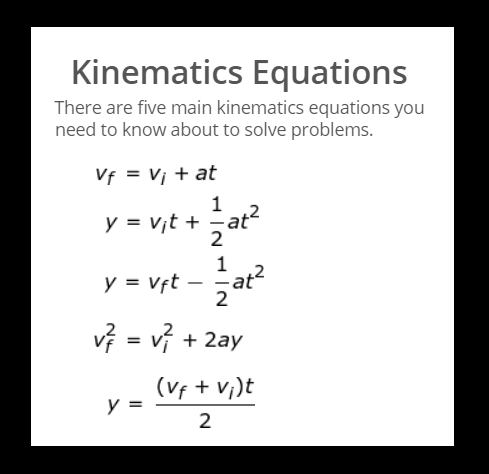
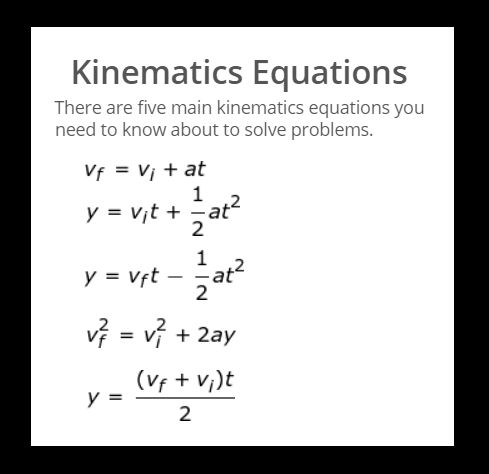
Lesson 1.3 Graphs

diff --git a/client/src/Pages/Lessons/ClassicalMechanics/Kinematics/Lesson1_3.js b/client/src/Pages/Lessons/ClassicalMechanics/Kinematics/Lesson1_3.js
@@ -42,10 +42,44 @@ const Lesson1_3 = () => {
 
       <div id="section1" className="green lighten-5" style={{padding:"1vh 6vw"}}>{/* SECTION 1 Two Equations*/}
         <h4 className="green-text text-darken-3">Intro: Two Kinematics Equations</h4>
-        <p className="center"><em>From here on out, Initial Velocity will often be represented as <InlineMath>{String.raw`v_o`}</InlineMath> ("v-naught") rather than <InlineMath>{String.raw`v_i`}</InlineMath>.</em></p>
-        <p style={{textIndent: "1.2em"}}>I'm probably under fire for insisting that there are only two kinematics equations. But here they are!</p>
+        <p><em>From here on out, Initial Velocity will often be represented as <InlineMath>{String.raw`v_o`}</InlineMath> ("v-naught") rather than <InlineMath>{String.raw`v_i`}</InlineMath>.</em></p>
+        <h5>The Five Kinematics Equations and Why I Despise Them</h5>
+        <p style={{textIndent: "1.2em"}}>
+          The Kinematics Equations are useful relationships between the variables we introduced last lesson: displacement, velocity (final and initial), acceleration, and time. 
+          Most kinematics problems will present some number of givens, and ask for you to solve for some unknown variable(s).
+          Because of this, many instructors compile a comprehensive list of equations that act as your toolbox.
+        </p>
+        <div className="row" style={{display: "flex", flexWrap: "wrap"}}>
+          <div className="col s7 m8 l8 green lighten-4" style={{borderStyle:"double", borderColor:"green"}}>
+            <h5 className="center">Using the List of Kinematics Equations</h5>
+            <h6 style={{textIndent: "1.2em"}}>1. Write down given variables and unknowns to solve for.</h6>
+            <h6 style={{textIndent: "1.2em"}}>2. Go through your list of equations and select the one that has all but one missing variable.</h6>
+            <h6 style={{textIndent: "1.2em"}}>3. Plug-N-Chug (sub in given values, solve for the unknown)</h6>
+            <p className="center"><em>The idea here is that every unknown variable in a kinematics problem has at least <b>one hyper-efficient equation</b> into which given values can be plugged, and one unknown pops out after some algebra.</em></p>
+            <div className="amber lighten-4" style={{padding:"1% 1% 0% 1%", borderStyle:"solid", borderColor:"#ff6f00"}}>
+                <h5 className="amber-text text-darken-4 center">Example: Choosing the Right Equation of the Five</h5>
+                <h6>A rock is thrown from the edge of a cliff. 3 seconds after it's thrown, its y-velocity is measured to be 35.6 m/s downward. Find its initial velocity.</h6>
+                <p><b>Step 1.</b> Given variables are <InlineMath>{String.raw`t=3s`}</InlineMath>, <InlineMath>{String.raw`a=-9.8m/s^2`}</InlineMath>, and <InlineMath>{String.raw`v_f = -35.6m/s`}</InlineMath>.</p>
+                <p className="center"><em>Find <InlineMath>{String.raw`v_o`}</InlineMath></em></p>
+                <p><b>Step 2.</b> The equation that contains variables t, a, v<sub>f</sub>, and v<sub>o</sub> is the Equation 1 from the list on the right. Since the problem doesn't give or ask for position, y, so we ignore equations 2-5.</p>
+                <p className="center"><em><InlineMath>{String.raw`v_f=v_o + at`}</InlineMath></em></p>
+                <p><b>Step 3.</b> Plug N Chug</p>
+                <p className="center"><em><InlineMath>{String.raw`-35.6m/s = v_o + (-9.8m/s^2)(3s)`}</InlineMath></em></p>
+                <p className="center"><em><InlineMath>{String.raw`-35.6m/s = v_o - 29.6 m/s`}</InlineMath></em></p>
+                <h6 className="center">So the ball was thrown downward, with <InlineMath>{String.raw`v_o = -6 m/s`}</InlineMath></h6>
+            </div>
+          </div>
+          <div className="col s5 m4 l4 grey lighten-3 center">
+            <h6><em>The "5 Kinematics Equations" according to the first Google search result</em></h6>
+            <img src={kinematicsEquations} width="80%"/>
+            <p><em>These equations set up almost all the possible relations between 5 variables: v<sub>i</sub>, v<sub>f</sub>, a, position, and t.</em></p>
+            <p style={{textAlign: "left", textIndent:"1.2em"}}>Each equation is missing one or more of these five variables, so students choose the most-efficient equation to apply to each problem.</p>
+          </div>
+        </div>
         <div className="row">{/* Two Kinematics Equations CONTENT */}
-          <div className="col s7 m7 l7">
+          <div className="col s12 m12 l12">
+            <h6>So if that's how everybody else teaches kinematics, why am I pretending there are only two equations?</h6>
+            <p style={{textIndent: "1.2em"}}>I'm not saying that your professors, teachers, and textbooks are wrong; there are at least four or five equations to master. But let's look at my proposed two-equation format.</p>
             <div className="col s6 m6 l6">
               <h6 className="center"><em>The Displacement Equation</em></h6>
               <h5 className="center"><InlineMath>{String.raw`Δx = v_ot + \frac{1}{2}at^2`}</InlineMath></h5>
@@ -55,26 +89,32 @@ const Lesson1_3 = () => {
               <h5 className="center"><InlineMath>{String.raw`v_f^2 = v_o^2 + 2aΔx`}</InlineMath></h5>
             </div>
             <div className="col s12 m12 l12">
-              <p>Both of the above equations hold true <em>as long as acceleration is constant</em>. But where are all the other ones, one might ask? Well you learned a few of them already, but I think of them less as "formulas" and more as definitions.</p>
+              <p>Both of the above equations hold true <em>as long as acceleration is constant</em>; I insist that these are the only two that are truly new. As for the others, well, you learned them already...</p>
             </div>
-            <div className="col s6 m6 l6">
+            <div className="col s4 m4 l4">
               <h6 className="center"><em>Definition of Velocity</em></h6>
               <h5 className="center"><InlineMath>{String.raw`\vec{v} = \frac{Δx}{t}`}</InlineMath></h5>
             </div>
-            <div className="col s6 m6 l6">
+            <div className="col s4 m4 l4">
               <h6 className="center"><em>Definition of Acceleration</em></h6>
               <h5 className="center"><InlineMath>{String.raw`\vec{a} = \frac{Δv}{t}`}</InlineMath></h5>
             </div>
-            <div className="col s12 m12 l12">
-              <p>These two are true no matter what (that's why they're definitions). There's also one more equation some people suggest: finding the average velocity of an object undergoing constant acceleration from v<sub>o</sub> to v<sub>f</sub>.</p>
+            <div className="col s4 m4 l4">
               <h6 className="center"><em>Calculating Average Velocity</em></h6>
               <h5 className="center"><InlineMath>{String.raw`v_{avg} = \frac{v_o+v_f}{2}`}</InlineMath></h5>
-              <p>...but I sincerely hope we don't need sit down and memorize the formula for arithmetic mean (average) of two numbers.</p>
             </div>
-          </div>
-          <div className="col s5 m5 l5 center">
-            <img src={kinematicsEquations} width="80%"/>
-            <p><em></em></p>
+            <div className="col s12 m12 l12">
+              <p>The first two are true no matter what (that's why they're definitions). The third is quite literally the definition of the "average value" of two numbers... which works as long as acceleration is constant. So if you really scrutinize the list of five kinematics equations, you may notice that...</p>
+              <div className="container">
+                <li>EQ 1 is just the definition of acceleration, rearranged to isolate v<sub>f</sub>.</li><br/>
+                <li>EQ 5 is just <InlineMath>{String.raw`Δx = v_{avg}t`}</InlineMath></li><br/>
+                <li>EQ 3 just combines EQs 1 and 2 with substition: <InlineMath>{String.raw`v_i = v_f - at`}</InlineMath></li>
+              </div>
+              <h5>I'm proposing a different strategy for your study of kinematics:</h5>
+              <h6><b>~Master the mathematical definitions of your variables, as well as the two kinematics equations</b> (rather than memorize five different equations)</h6>
+              <h6><b>~Practice solving problems using critical thinking and analysis</b> as opposed to digging through a list for the most-suitable equation.</h6>
+              <p>You'll find success if you train yourself to visualize each situation, analyze variables in relation to other variables, and build big-picture understanding through concept mastery rather than algebra-drilling.</p>
+            </div>
           </div>
         </div>
         <div className="amber darken-1 row">{/* Two Kinematics Equations EXAMPLE PROBLEMS */}
@@ -84,11 +124,47 @@ const Lesson1_3 = () => {
       </div>{/* Section 1 End*/}
 
       <div id="section2" className="blue lighten-5" style={{padding:"1vh 6vw"}}>{/* SECTION 2 Displacement EQ*/}
-        <h4 className="blue-text text-darken-3">The Displacement Equation</h4>
-        <p style={{textIndent: "1.2em"}}></p>
-        <p className="center"><em></em></p>
-
+        <h4 className="blue-text text-darken-3">The Displacement Equation: <InlineMath>{String.raw`Δx = v_ot + \frac{1}{2}at^2`}</InlineMath></h4>
+        <p style={{textIndent: "1.2em"}}>This equation comes from integrating the definition of acceleration (using Calculus). Regardless of your experience in Calculus, we can visualize where this equation comes from using motion graphs and area-under-the-curve problems. Let's break it down with two scenarios.</p>
         <div className="row">{/* Two Kinematics Equations CONTENT */}
+          <div className="col s12 m6 l6">
+            <h5>1. Constant Velocity (no acceleration)</h5>
+            <p>
+              Consider an object with initial velocity 2m/s and <b>no acceleration</b>. Its displacement, then, is a linear function of time: 
+            </p>
+            <div className="col s6 m6 l6">
+              <h6 className="center blue-text">Δx as a function of time</h6>
+              <iframe src="https://www.desmos.com/calculator/smgyic8m3e?embed"></iframe>
+              <p><em>Displacement increases steadily over time, as the velocity is constant.</em></p>
+            </div>
+            <div className="col s6 m6 l6">
+              <h6 className="center red-text"><em>v</em> as a function of time</h6>
+              <iframe src="https://www.desmos.com/calculator/hw8qhbp3wd?embed"></iframe>
+              <p><em>With a=0, the velocity stays at 2 m/s. The area under this line tells us the displacement after <em>t</em> seconds.</em></p>
+            </div>
+
+          </div>
+          <div className="col s12 m6 l6">
+            <h5>2. Initial Velocity 0, but constant acceleration</h5>
+            <p>
+              This object starts from rest, but has constant acceleration <InlineMath>{String.raw`a = 2m/s^2`}</InlineMath>. We can determine its velocity as a function of time using the definition of acceleration.
+            </p>
+            <div className="col s6 m6 l6">
+              <h6 className="center red-text"><em>v</em> as a function of time</h6>
+              <iframe src="https://www.desmos.com/calculator/flzkb8sx5e?embed"></iframe>
+              <p><em>For time "t", v<sub>avg</sub> is the average of v<sub>o</sub> and v<sub>f</sub>(t). Note that Δx is still the area under this curve, and it's... triangular!</em></p>
+            </div>
+            <div className="col s6 m6 l6">
+              <h6 className="center green-text"><em>a</em> as a function of time</h6>
+              <iframe src="https://www.desmos.com/calculator/1zt8xs3khi?embed"></iframe>
+              <p><em>Acceleration is, of course, constant. The area under the curve tells us what the change in velocity is after time "t".</em></p>
+            </div>
+            <h6><InlineMath>{String.raw`v_f = at`}</InlineMath></h6>
+            <h6><InlineMath>{String.raw`v_{avg} = \frac{1}{2}v_f = \frac{1}{2}at`}</InlineMath> (with no initial velocity).</h6>
+            <p className="center"><InlineMath>{String.raw`Δx = v_{avg}t =(\frac{1}{2}at)t`}</InlineMath></p>
+            <p className="center"><InlineMath>{String.raw`Δx = \frac{1}{2}at^2 `}</InlineMath></p>
+          </div>
+
         </div>
         <div className="amber darken-1 row">{/* Two Kinematics Equations EXAMPLE PROBLEMS */}
         </div>
